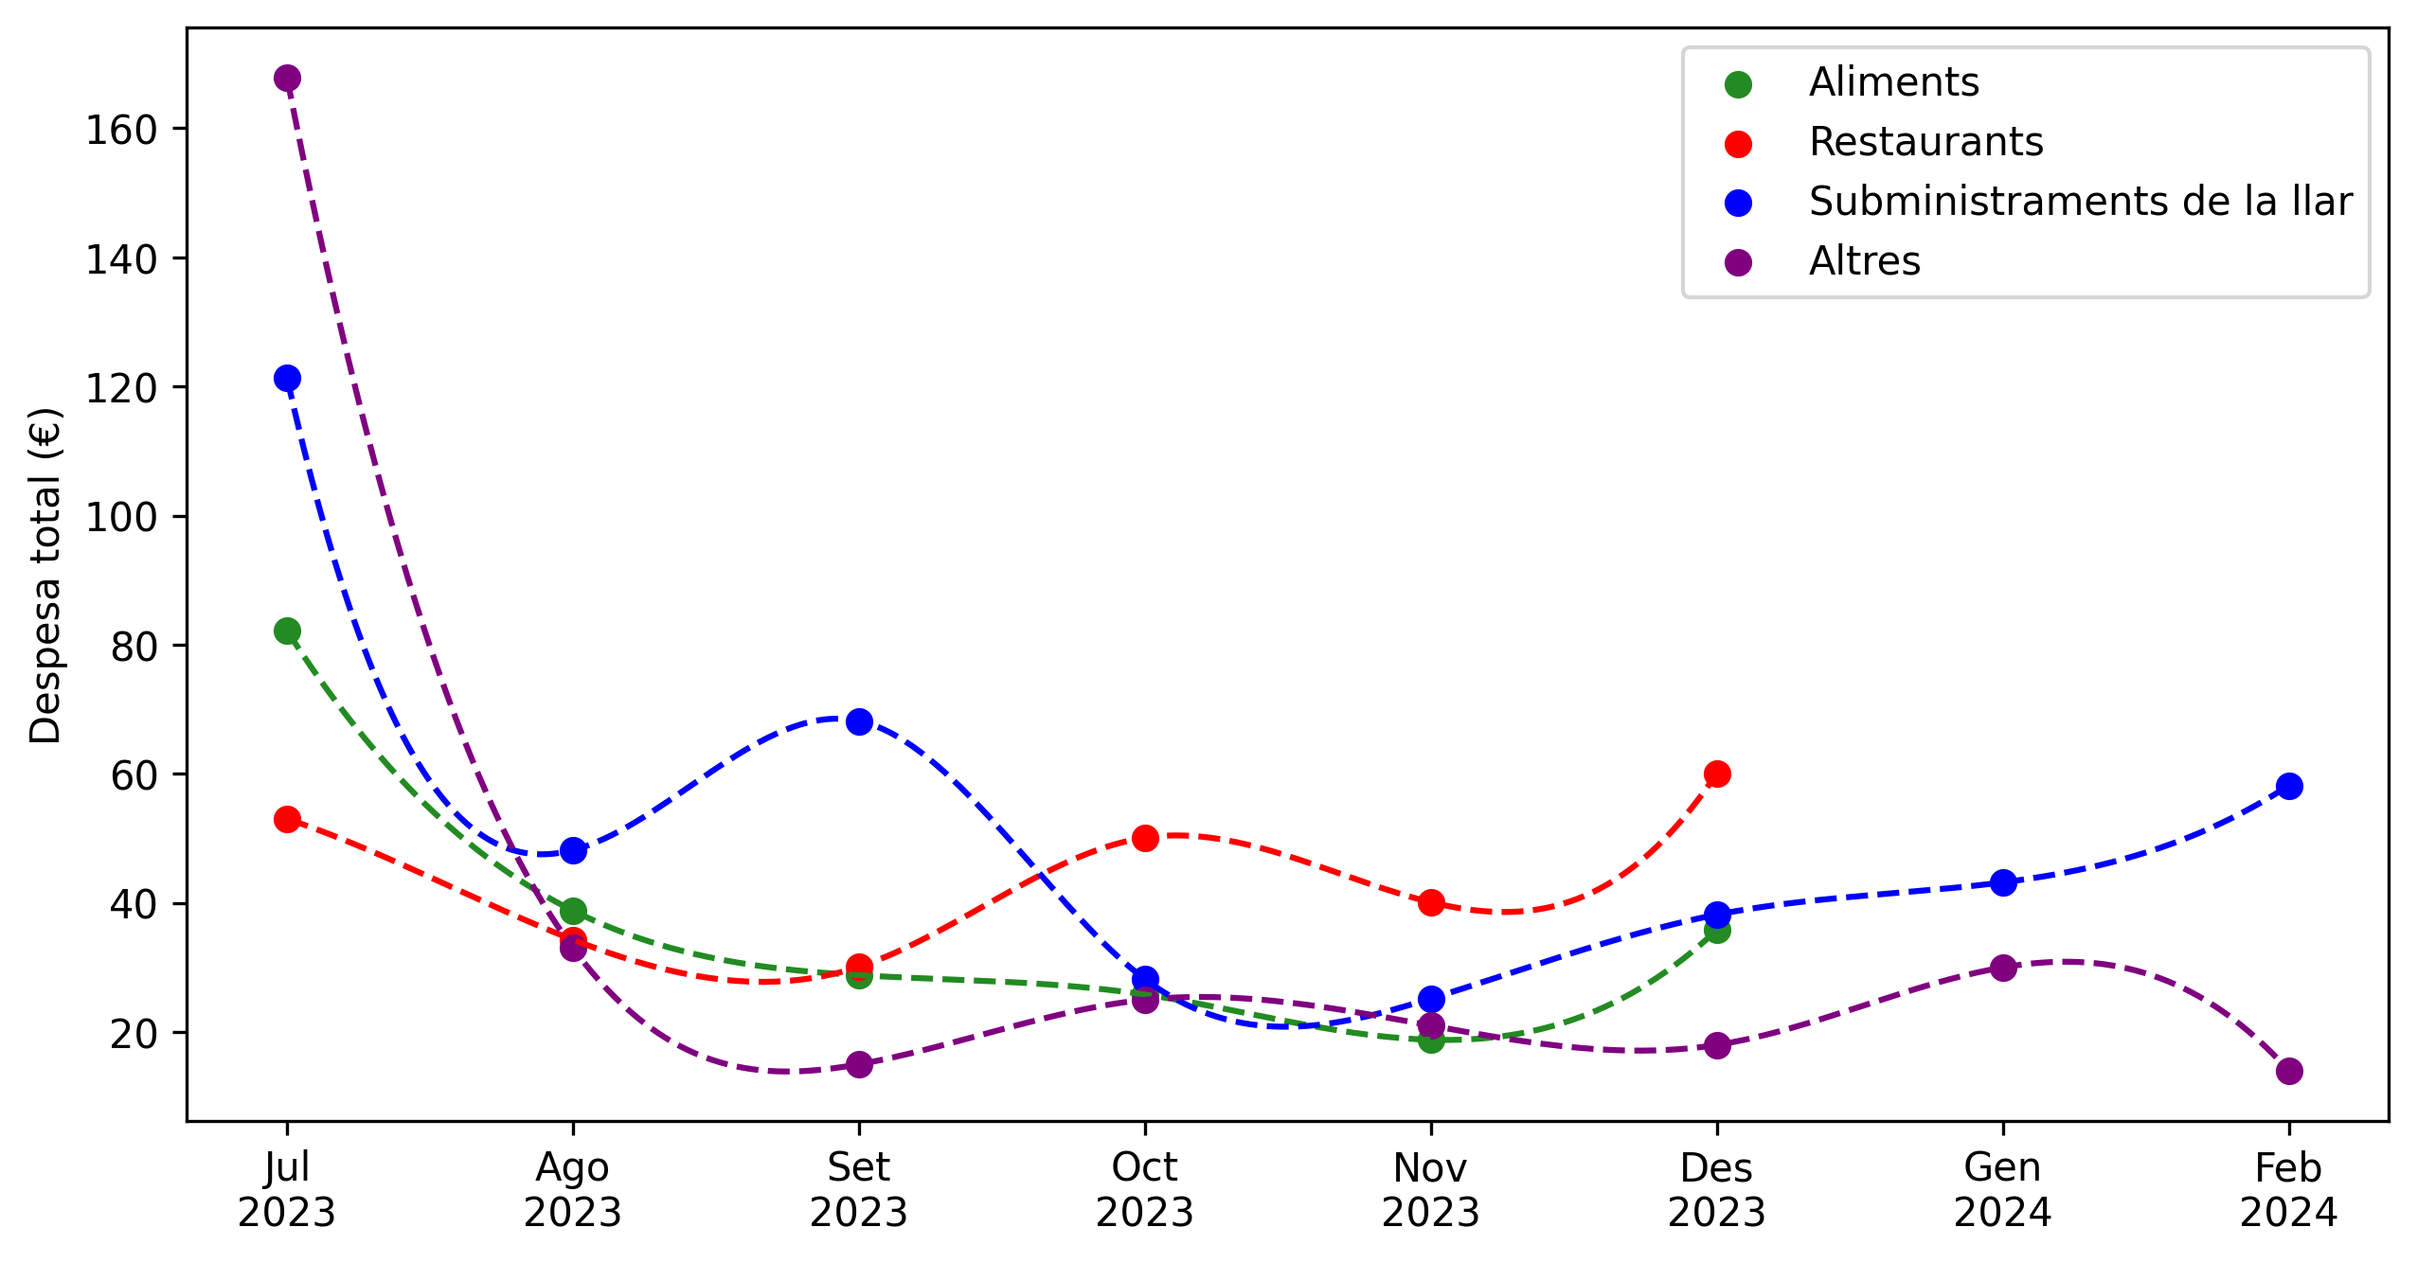
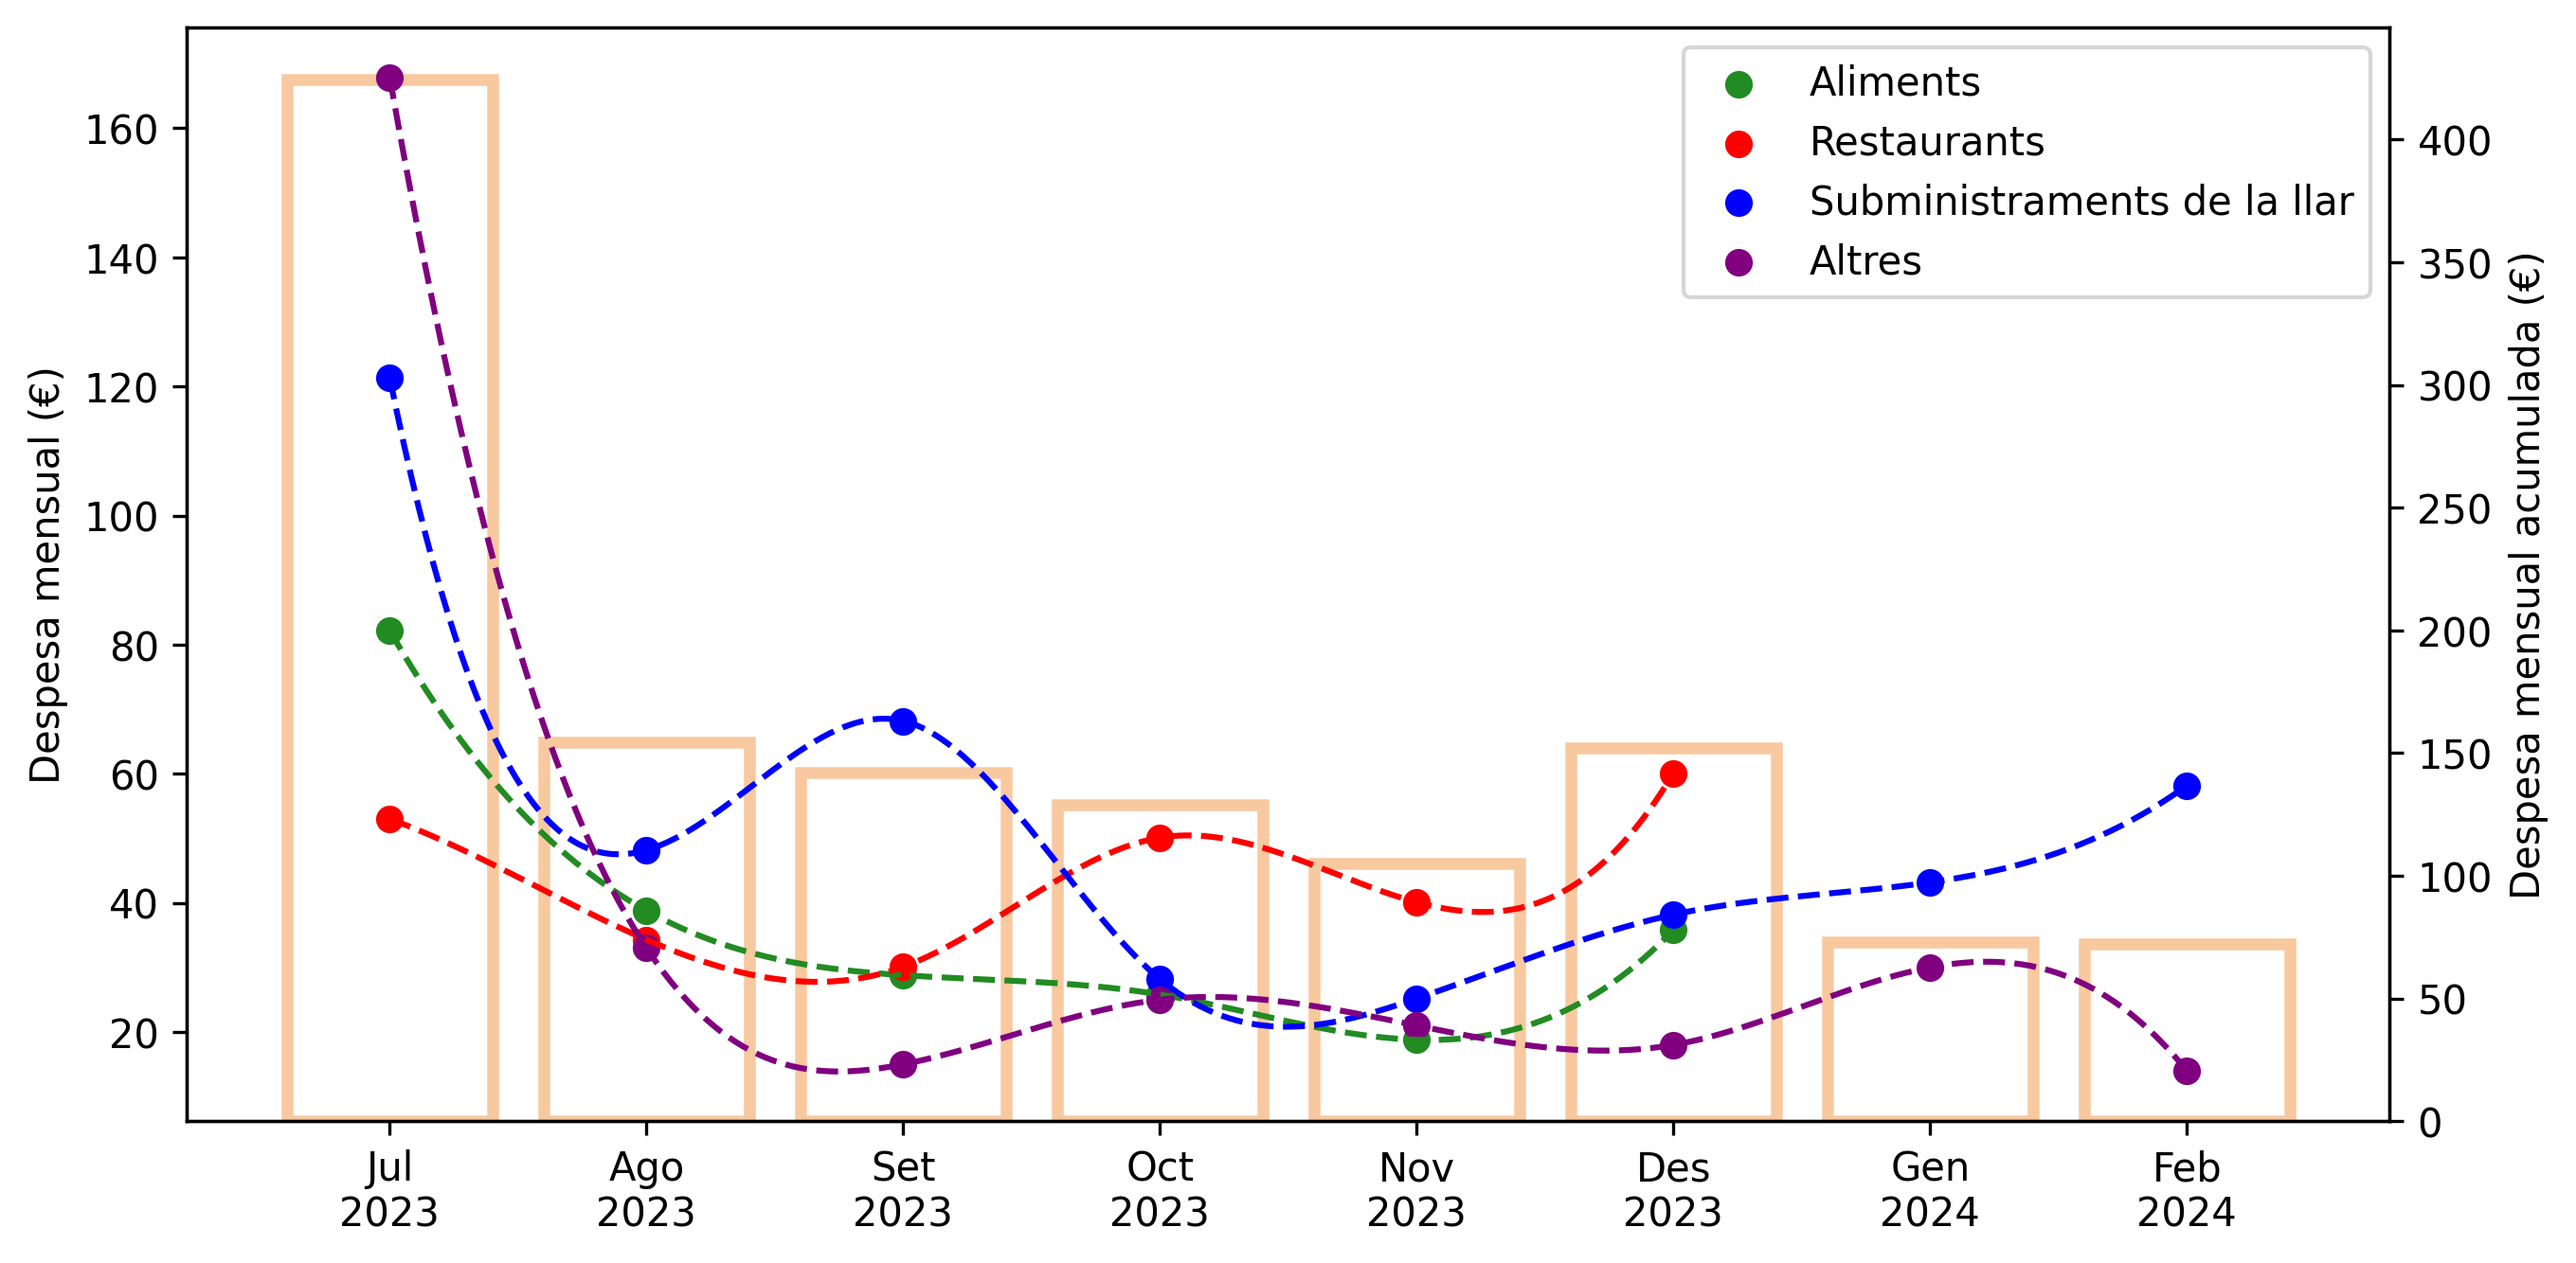
Histogram added

diff --git a/despeses_splitwise.py b/despeses_splitwise.py
@@ -5,6 +5,8 @@ L'objectiu del codi és prendre les dades del fitxer output de l'aplicació Spli
 Les despeses s'agrupen segons les etiquetes de l'aplicació. A les primeres línies del codi l'usuari pot decidir quines despeses vol
 dibuixar en línies independents i en quin color. Les despeses que no s'explicitin s'agruparan en una única línia si l'usuari ho desitja.
 
+L'usuari pot decidir si vol un histograma amb la despesa mensual acumulada o no.
+
 Els noms de les categories són els noms de les columnes del fitxer csv (en el meu cas, en castellà). Els noms que surten al gràfic es poden
 escirure en català a categories_labels.
 
@@ -32,13 +34,17 @@ categories_colors = ['forestgreen', 'red', 'blue', 'purple']
 # Escriure True si es volen agrupar les despeses de les categories no explicitades en una única línia. Altrament, escriure False
 altres = True
 
+# Escriure True si es vol un histograma al fons amb la despesa total de cada mes. Altrament, escriure False
+histogram = True
+
 # Nom de la columna de despeses, cateogria i data al fitxer de dades
 despeses_col = 'Coste'
 categoria_col = 'Categoría'
 data_col = 'Fecha'
 
-# Definir ylabel
-ylabel = r'Despesa total (€)'
+# Definir ylabels
+ylabel = r'Despesa mensual (€)'
+ylabel2 = r'Despesa mensual acumulada (€)'
 
 ################################################################
 ################################################################
@@ -133,22 +139,45 @@ for categoria in range(ncategories):
     x_ = np.linspace(entrades.min(), entrades.max(), 500) # Fem 500 punts entre els punts de les entrades
     y_ = X_Y_Spline(x_) # Retorna els punts y corresponents als punts x que hem creat
 
-    ax.plot(x_, y_, '--', c=cat_color) # Dibuix spline
+    ax.plot(x_, y_, '--', c=cat_color, zorder = 1) # Dibuix spline
 
     # Dibuixem les línies d'aquesta categoria
-    ax.scatter(entrades, despeses, label=cat_name, c= cat_color)
+    ax.scatter(entrades, despeses, label=cat_name, c= cat_color, zorder = 1)
     #ax.plot(entrades, despeses, '--', c=cat_color) # Dibuix plot recte
+
+## Histograma
+if histogram:
+    despeses_tot = np.full(nmesos0, np.nan) #Array on hi guardarem les despeses totals de cada mes
+    mes_idx = 0 # Índex de cada mes
+    for any in data['Any'].drop_duplicates():
+        mask_any = data['Any'] == any # Màscara de l'any
+        for mes in data[mask_any]['Mes'].drop_duplicates():
+            ### AQUESTA PART DEL CODI NO FUNCIONA BÉ SI HI HA UN BUIT DINS ELS MESOS ###
+            ## Això és perquè el nombre de mes es pren amb el comptador mes_idx i la variable 'mes' ha d'estar continguda a data ##
+            mask_mes = data[mask_any]['Mes'] == mes # Màscara del mes (dins l'any)
+            despesa_tot = data[mask_any][mask_mes][despeses_col].astype(float).sum() #Despesa total del mes
+            if despesa_tot == 0: # Sobreescrivim per l'histograma si és 0
+                despesa_tot = np.nan
+            despeses_tot[mes_idx] = despesa_tot # Guardem la despesa total del mes
+            mes_idx += 1 # Incrementem el mes
+
+    # Figura
+    ax2 = ax.twinx()
+    ax2.set_zorder(0)
+    ax.patch.set_visible(False)  # Hide the 'background' subplot
+    ax.set_zorder(1)  # zorder general. Això és per si després hi posem un secondary axis
+
+    ax2.bar(entrades, despeses_tot, edgecolor='sandybrown', linewidth=3, facecolor='white', zorder = 0, alpha = 0.6)
+    ax2.set_ylabel(ylabel2)
 
 mes_idx = nmes0 - 1 # Cal tenir en compte que mes_idx = 0 equival a 'Gen'
 ticklabels = np.full(nmesos0, 'MES\nANY_') # Cal que l'string contingui els mateixos caràcters que tindrà el label
 for nmes in range(nmesos0):
     label = str(str(mesos_labels[mes_idx]) +'\n'+ str(2023 + (nmes + (nmes0-1)) // 12))
-    #label = str(2023 + (nmes + 6) // 12)
     ticklabels[nmes] = label
     mes_idx += 1
     if mes_idx > 11:
         mes_idx = 0
-
 
 # Paràmetres del plot
 ax.legend()

diff --git a/despeses_splitwise_en.py b/despeses_splitwise_en.py
@@ -5,6 +5,8 @@ The goal of this code is to take the data from the output file of the Splitwise 
 Expenses are grouped based on the app labels. In the first lines of the code the user can define which expenses to plot and their color
 The non-defined expenses can be grouped in a single line of the plot
 
+The user can decide if they want a background histogram with the monthly cumulative expense.
+
 The name of the categories are the .csv file column labels (in my case, in Spanish). However, the user can define the new labels as desired.
 
 All the lines that may be changed by the user are found up to the hashtags (#) line.
@@ -31,13 +33,17 @@ categories_colors = ['forestgreen', 'red', 'blue', 'purple']
 # Write True if you want to show all the other categories in a single plot. Otherwise, write False
 altres = True
 
+# Write True if you want to show a histogram plot with the cummulative monthly expense. Otherwise, write False
+histogram = True
+
 # Expenses, categories and date column label in the datafile
 despeses_col = 'Coste'
 categoria_col = 'Categoría'
 data_col = 'Fecha'
 
-# Define the ylabel
-ylabel = r'Despesa total (€)'
+# Define the ylabels
+ylabel = r'Monthly expense (€)'
+ylabel2 = r'Cummulative monthly expense (€)'
 
 # Months labels
 mesos_labels = ['Jan', 'Feb', 'Mar', 'Apr', 'May', 'Jun', 'Jul', 'Aug', 'Sep', 'Oct', 'Nov', 'Dec']
@@ -132,11 +138,36 @@ for categoria in range(ncategories):
     x_ = np.linspace(entrades.min(), entrades.max(), 500) # Fem 500 punts entre els punts de les entrades
     y_ = X_Y_Spline(x_) # Retorna els punts y corresponents als punts x que hem creat
 
-    ax.plot(x_, y_, '--', c=cat_color) # Dibuix spline
+    ax.plot(x_, y_, '--', c=cat_color, zorder = 1) # Dibuix spline
 
     # Dibuixem les línies d'aquesta categoria
-    ax.scatter(entrades, despeses, label=cat_name, c= cat_color)
+    ax.scatter(entrades, despeses, label=cat_name, c= cat_color, zorder = 1)
     #ax.plot(entrades, despeses, '--', c=cat_color) # Dibuix plot recte
+
+## Histograma
+if histogram:
+    despeses_tot = np.full(nmesos0, np.nan) #Array on hi guardarem les despeses totals de cada mes
+    mes_idx = 0 # Índex de cada mes
+    for any in data['Any'].drop_duplicates():
+        mask_any = data['Any'] == any # Màscara de l'any
+        for mes in data[mask_any]['Mes'].drop_duplicates():
+            ### AQUESTA PART DEL CODI NO FUNCIONA BÉ SI HI HA UN BUIT DINS ELS MESOS ###
+            ## Això és perquè el nombre de mes es pren amb el comptador mes_idx i la variable 'mes' ha d'estar continguda a data ##
+            mask_mes = data[mask_any]['Mes'] == mes # Màscara del mes (dins l'any)
+            despesa_tot = data[mask_any][mask_mes][despeses_col].astype(float).sum() #Despesa total del mes
+            if despesa_tot == 0: # Sobreescrivim per l'histograma si és 0
+                despesa_tot = np.nan
+            despeses_tot[mes_idx] = despesa_tot # Guardem la despesa total del mes
+            mes_idx += 1 # Incrementem el mes
+
+    # Figura
+    ax2 = ax.twinx()
+    ax2.set_zorder(0)
+    ax.patch.set_visible(False)  # Hide the 'background' subplot
+    ax.set_zorder(1)  # zorder general. Això és per si després hi posem un secondary axis
+
+    ax2.bar(entrades, despeses_tot, edgecolor='sandybrown', linewidth=3, facecolor='white', zorder = 0, alpha = 0.6)
+    ax2.set_ylabel(ylabel2)
 
 mes_idx = nmes0 - 1 # Cal tenir en compte que mes_idx = 0 equival a 'Gen'
 ticklabels = np.full(nmesos0, 'MES\nANY_') # Cal que l'string contingui els mateixos caràcters que tindrà el label
